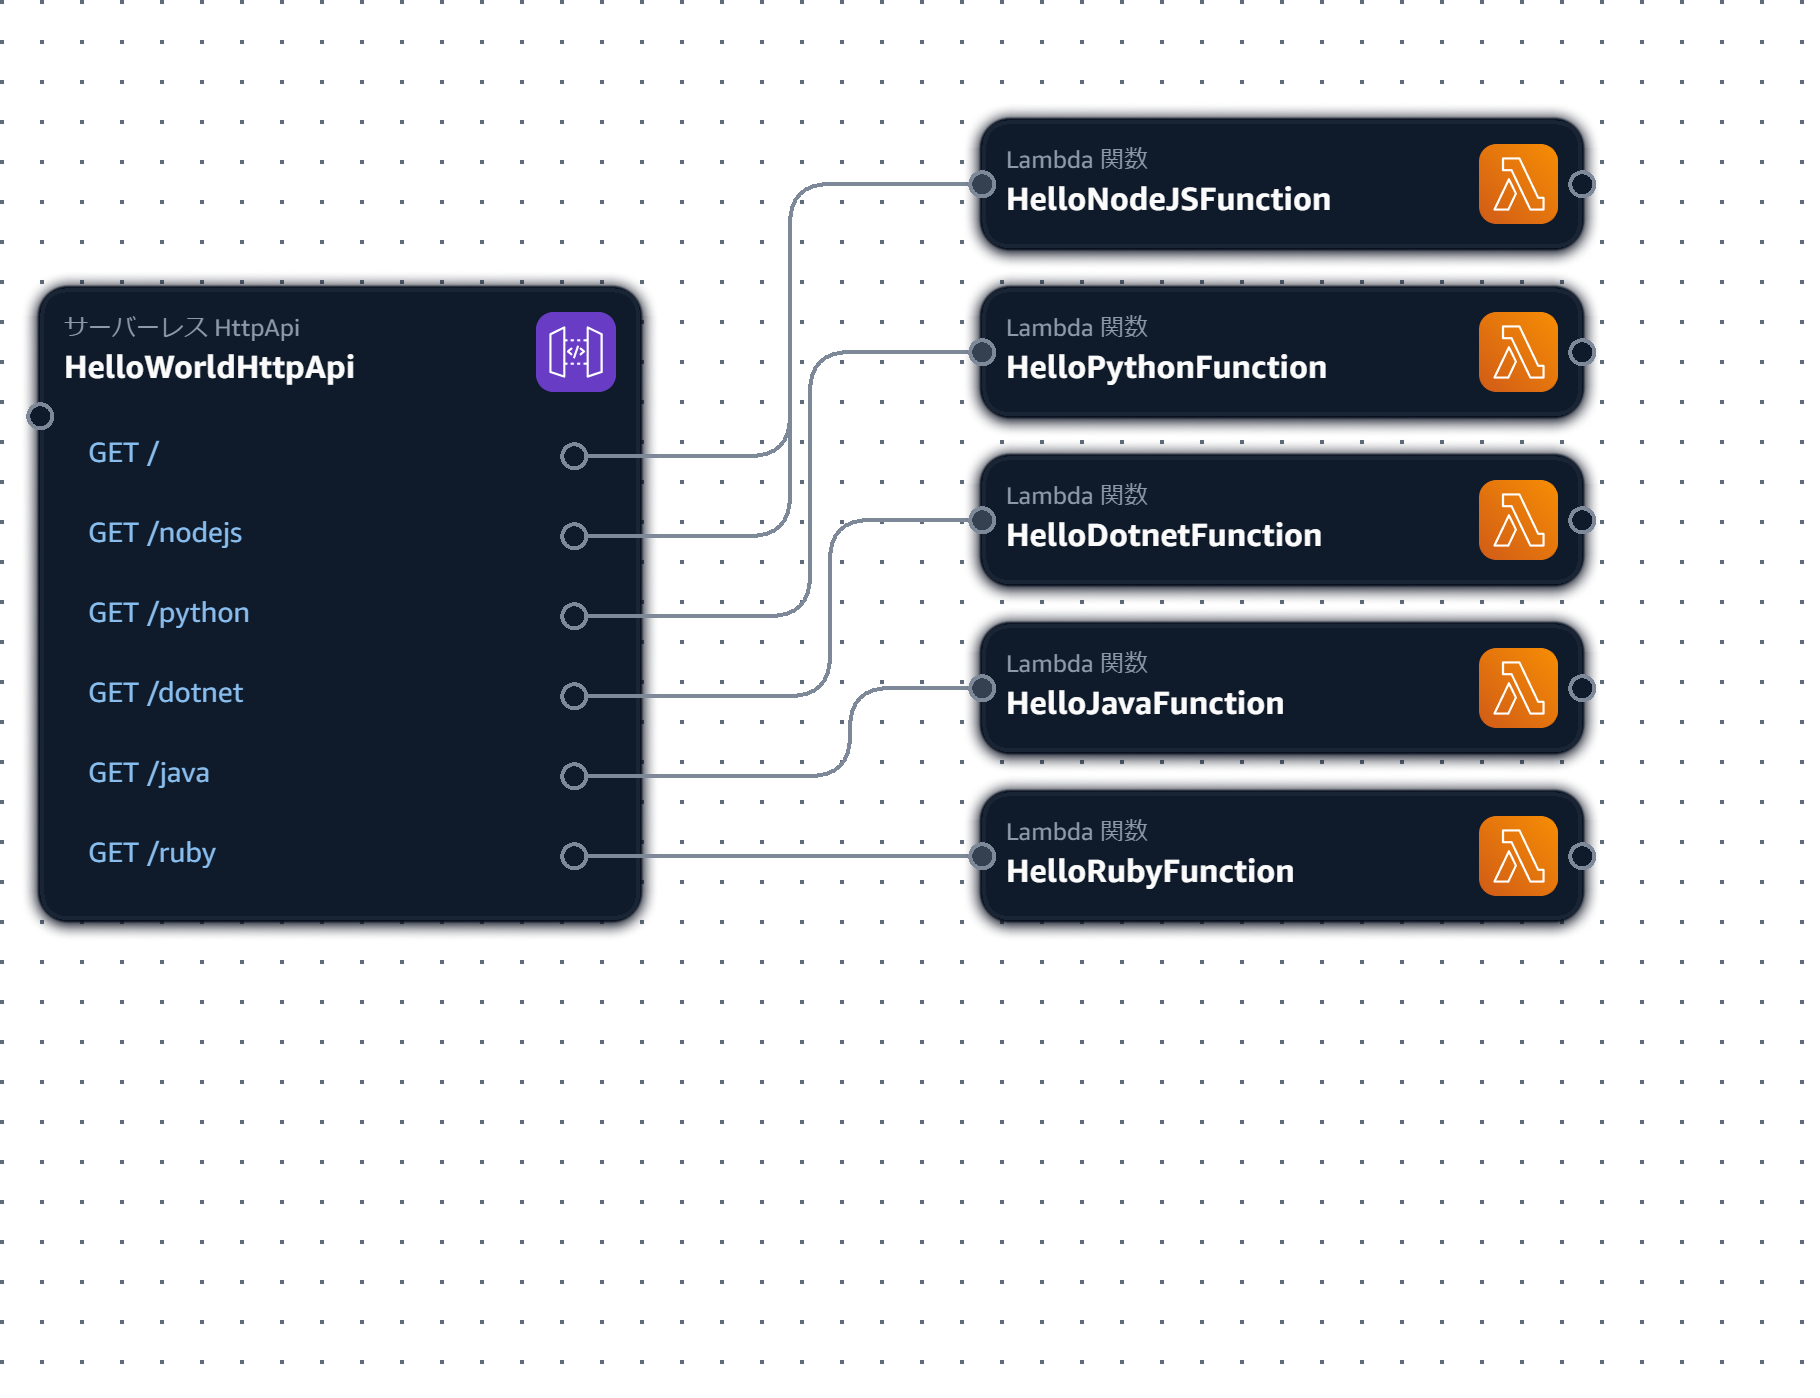
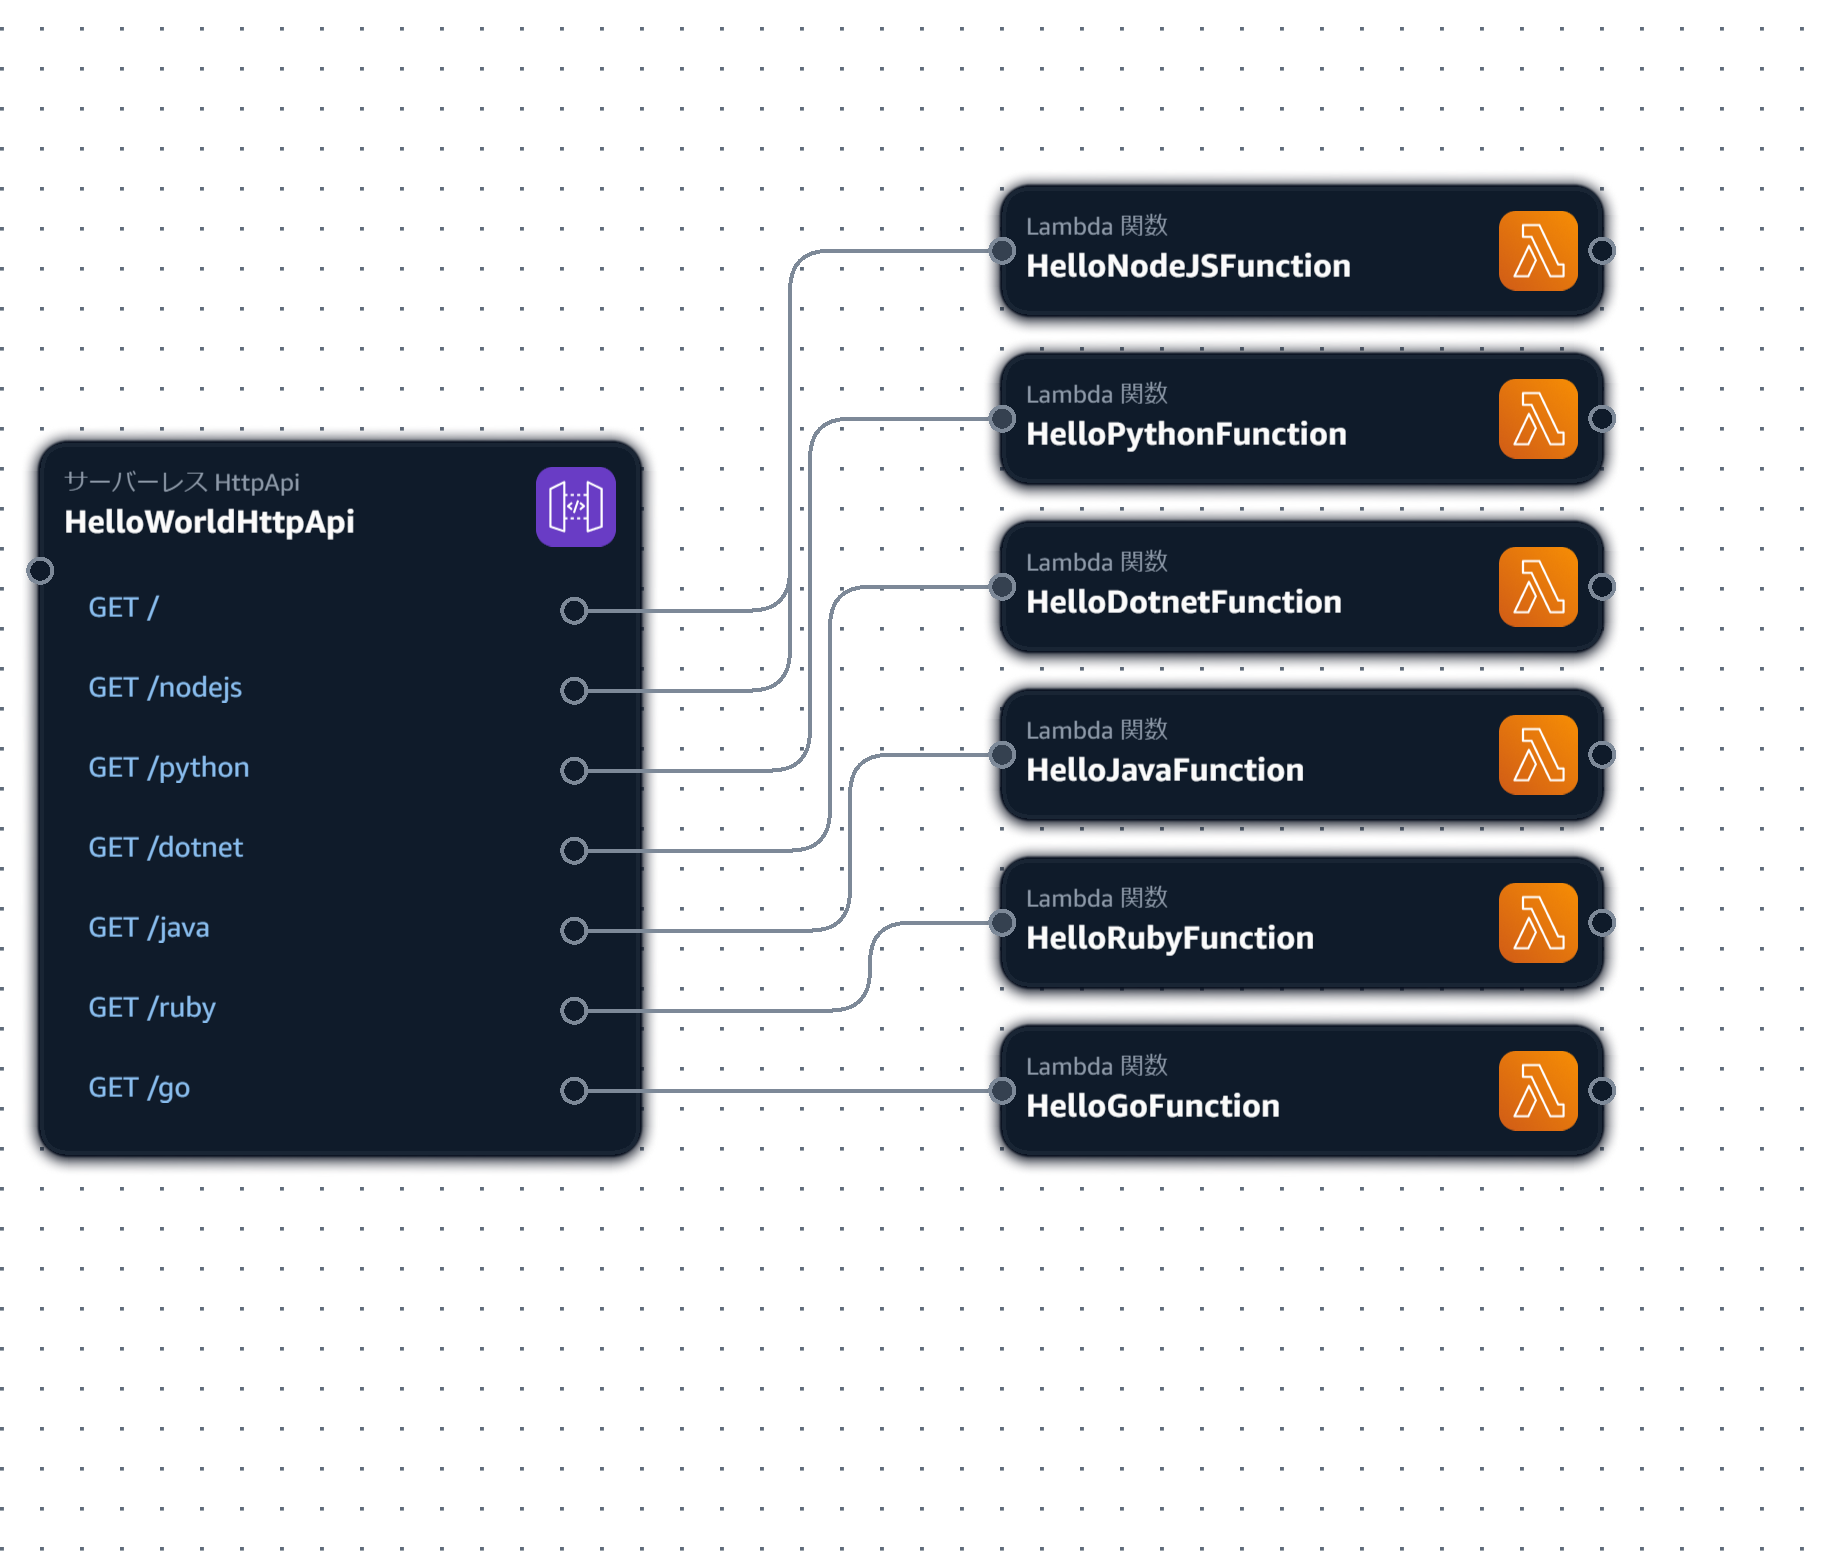
Go 追加

diff --git a/src/HelloGoFunction/main.go b/src/HelloGoFunction/main.go
@@ -1,0 +1,44 @@
+package main
+
+import (
+	"fmt"
+	"math/rand"
+	"time"
+
+	"github.com/aws/aws-lambda-go/events"
+	"github.com/aws/aws-lambda-go/lambda"
+)
+
+func handler(request events.APIGatewayProxyRequest) (events.APIGatewayProxyResponse, error) {
+	// 乱数のシードを設定
+	rand.Seed(time.Now().UnixNano())
+
+	// 0から9のランダムな数値を生成
+	random0to9 := rand.Intn(10)
+
+	// HTMLのレスポンスボディを作成
+	body := fmt.Sprintf(`<!DOCTYPE html>
+<html lang="ja">
+<head>
+    <meta charset="utf-8" />
+    <title>Hello Go!</title>
+</head>
+<body>
+    <h1>Hello Go!</h1>
+    <p>0 から 9 のランダムな値: %d</p>
+</body>
+</html>`, random0to9)
+
+	// レスポンスを返す
+	return events.APIGatewayProxyResponse{
+		StatusCode: 200,
+		Headers: map[string]string{
+			"Content-Type": "text/html",
+		},
+		Body: body,
+	}, nil
+}
+
+func main() {
+	lambda.Start(handler)
+}

diff --git a/README.md b/README.md
@@ -3,7 +3,7 @@
 ## 概要
 * AWS SAM を使ってシンプルな API Gateway HTTP API を構築する。
 * AWS SAM CLI などの実行環境を VSCode の Dev Containers で構築する。
-* NodeJS 以外にも Python, .NET, Java, Ruby で Lambda 関数を作成してみる。
+* NodeJS 以外にも Python, .NET, Java, Ruby, Go で Lambda 関数を作成してみる。
 * 前回: [aws_sam_httpapi_hello_world](https://github.com/Tobotobo/aws_sam_httpapi_hello_world)
 
 ![alt text](docs/images/infrastructure-composer-template.yaml.png)  
@@ -28,6 +28,7 @@ Docker version 28.0.1, build 068a01e
 * [.NET のビルド・実行](#net-のビルド実行)
 * [Java のビルド・実行](#java-のビルド実行)
 * [Ruby のビルド・実行](#ruby-のビルド実行)
+* [Go のビルド・実行](#go-のビルド実行)
 * [デプロイ](#デプロイ)
 * [スタックを削除](#スタックを削除)
 
@@ -36,10 +37,10 @@ Docker version 28.0.1, build 068a01e
 * インストールしていない場合は VSCode の拡張機能の `Remote Development` をインストールする。
 * VSCode でフォルダを開いた際に以下のメッセージが表示された場合は、コンテナーで再度開く をクリックする。  
   ![alt text](docs/images/image-1.png)
-* 表示されない場合は `Ctrl + Shift + P` または画面上部の検索から コマンドの表示と実行 をクリックする。
+* 表示されない場合は `Ctrl + Shift + P` または画面上部の検索から コマンドの表示と実行 をクリックする。  
   ![alt text](docs/images/image-2.png)
 * 開発コンテナー: コンテナーで再度開く をクリック  
-  ※初回はコンテナのビルドで少し時間がかかります。
+  ※初回はコンテナのビルドで少し時間がかかります。  
   ![alt text](docs/images/image-3.png)  
   ![alt text](docs/images/image-4.png)  
 
@@ -58,6 +59,7 @@ sam local start-api
 * http://127.0.0.1:3000/dotnet
 * http://127.0.0.1:3000/java
 * http://127.0.0.1:3000/ruby
+* http://127.0.0.1:3000/go
 
 留意点
 * ブラウザから URL を叩くと、その URL に対応する Lambda 関数が都度 Docker で実行され結果が返される。
@@ -134,6 +136,24 @@ sam local invoke HelloRubyFunction
 留意点
 * Infrastructure Composer が生成した ruby3.3 のテンプレでは、`Handler: index.handler` になっているが実行すると `cannot load such file -- index` になる。  
   `Handler: function.handler` に修正する。  
+
+### Go のビルド・実行
+ビルド
+```
+sam build --use-container HelloGoFunction
+```
+実行
+```
+sam local invoke HelloGoFunction
+```
+留意点
+* Go による Lambda 関数の構築  
+  https://docs.aws.amazon.com/ja_jp/lambda/latest/dg/lambda-golang.html  
+  > Go は、他のマネージドランタイムとは異なる方法で実装されています。Go は実行可能バイナリにネイティブにコンパイルするため、専用の言語ランタイムは必要ありません。Go 関数を Lambda にデプロイするには、OS 専用ランタイム (provided ランタイム ファミリ) を使用します。  
+* `Runtime: provided.al2023` でどうやって Go をビルドするのかと思ったら `Runtime: provided.al2023` には Go が入ってるっぽい。  
+  AL2023 での Go  
+  https://docs.aws.amazon.com/ja_jp/linux/al2023/ug/go.html  
+  > AL2023 Go で独自のコードを作成したい場合は、AL2023 Go に含まれているツールチェーンを使用できます。  
 
 ### デプロイ
 
